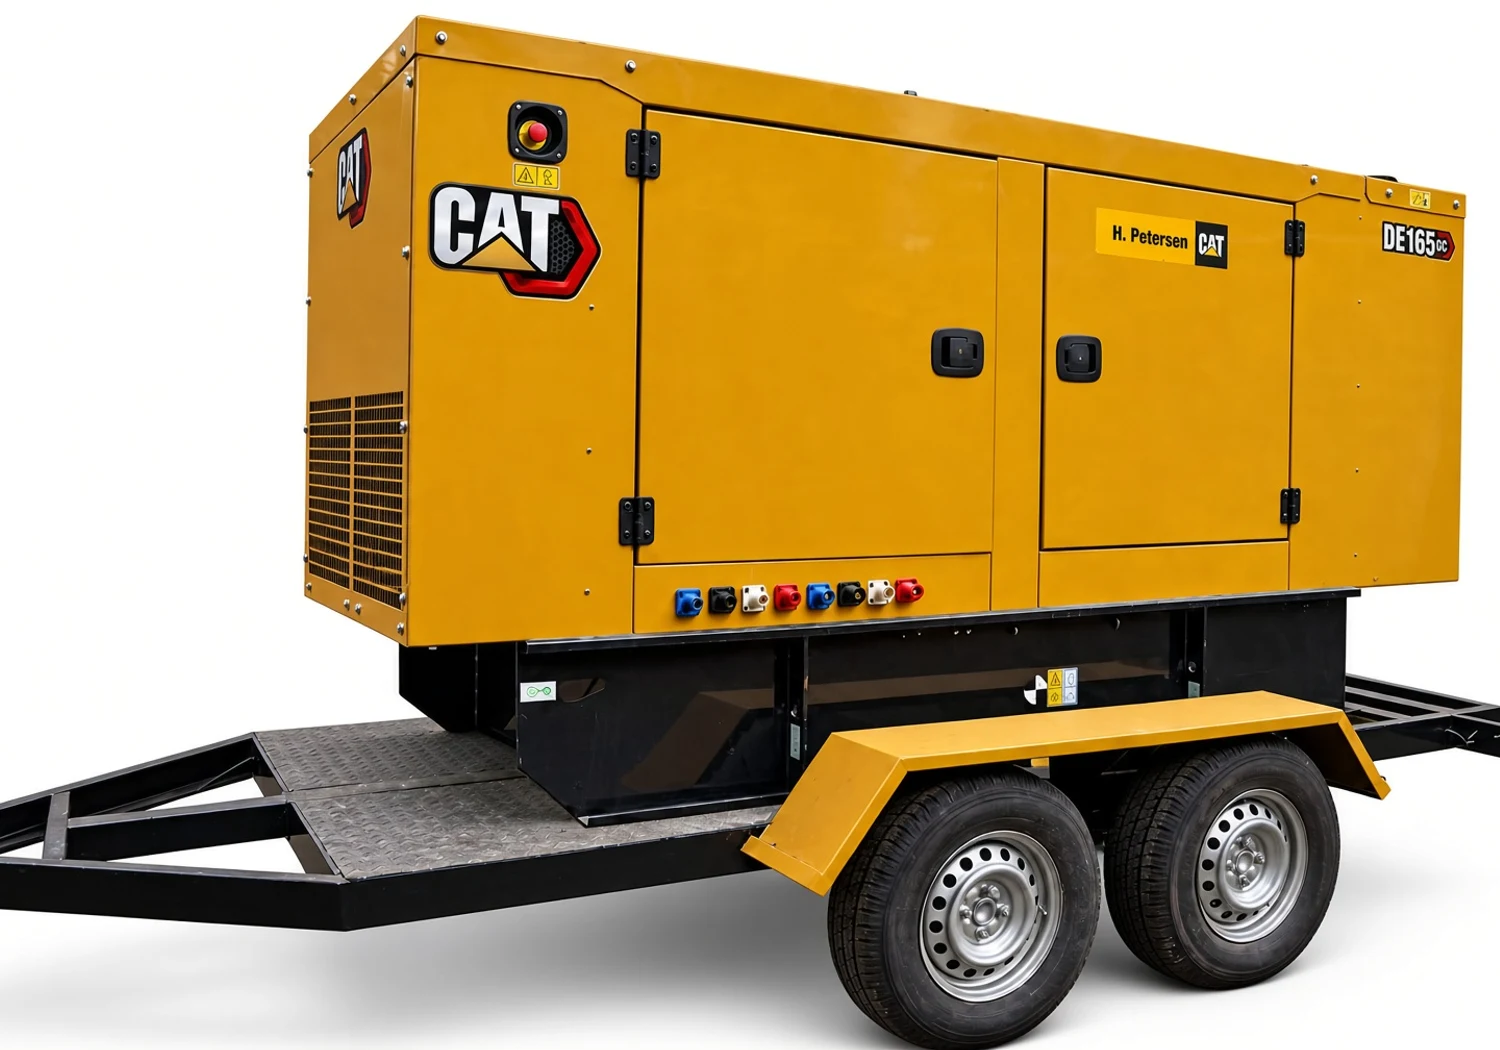
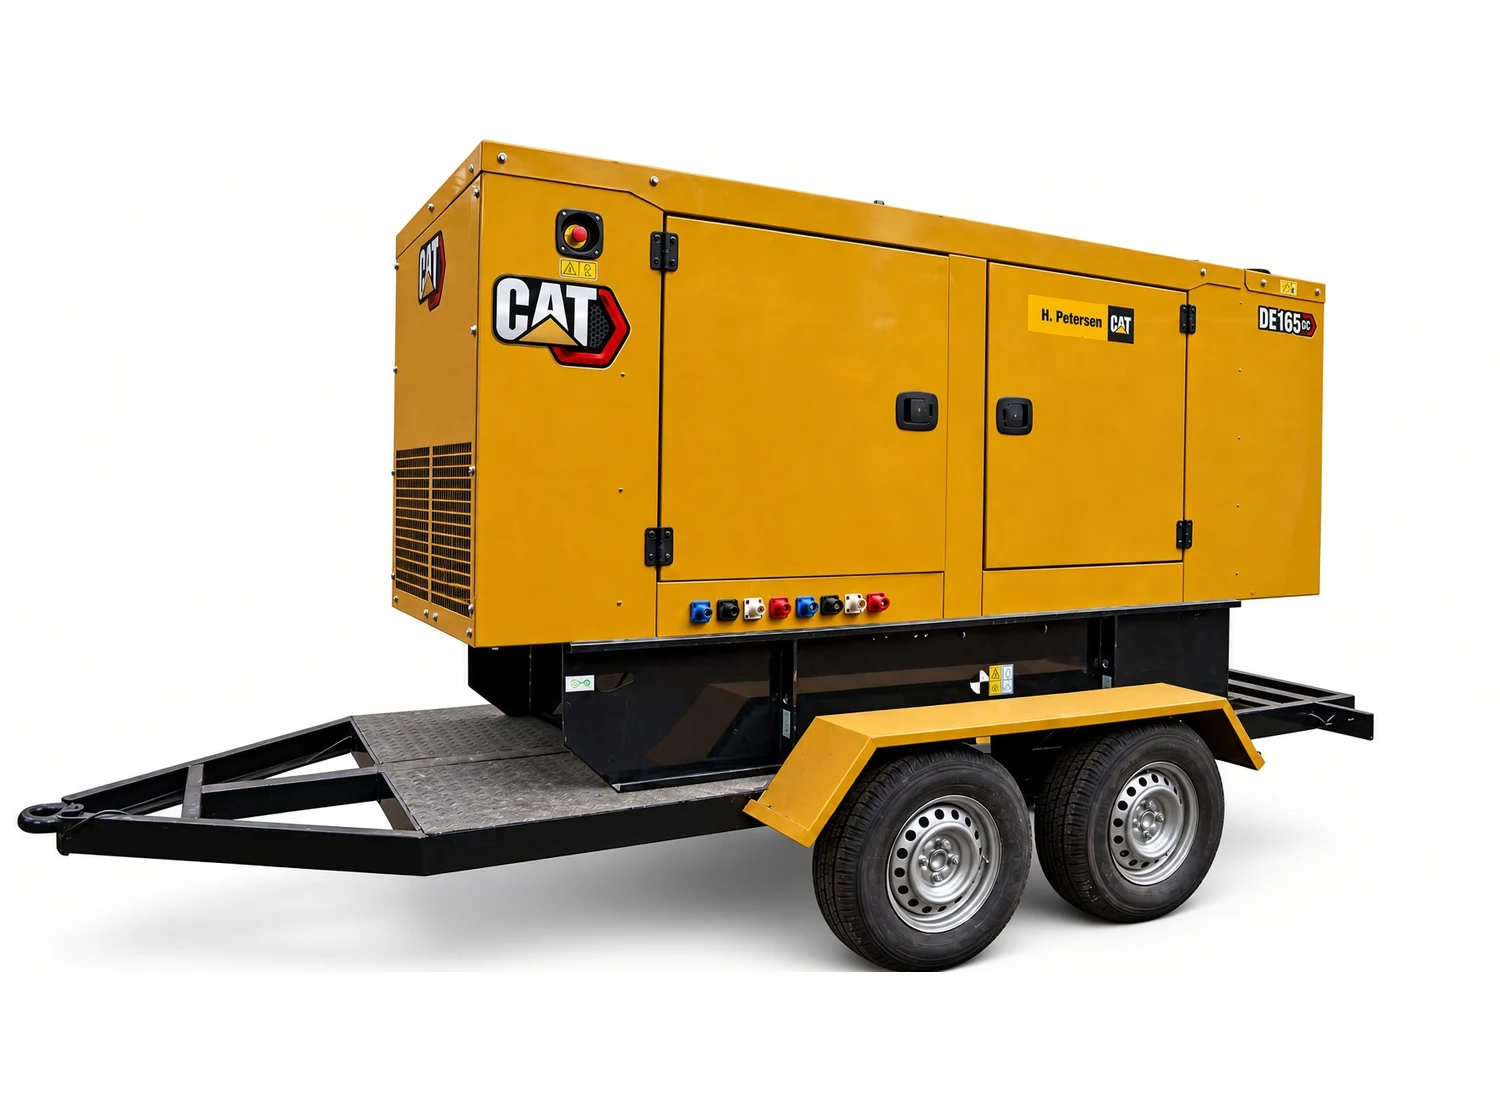
Equipos: climate & energy images use contain (show full product, less zoom)

diff --git a/index.html b/index.html
@@ -134,7 +134,7 @@
           </div>
         </article>
         <article class="equip-row equip-row--reverse reveal">
-          <div class="equip-row-media media-reveal"><img src="assets/img/products/ventilador-industrial.webp" alt="Climatización" loading="lazy" /></div>
+          <div class="equip-row-media equip-row-media--contain media-reveal"><img src="assets/img/products/ventilador-industrial.webp" alt="Climatización" loading="lazy" /></div>
           <div class="equip-row-body">
             <span class="equip-eyebrow" data-i18n="home.cat.climate.title">Climatización</span>
             <h3 data-i18n="home.diff.clima.title">Ventiladores, climatizadores y estufas</h3>
@@ -143,7 +143,7 @@
           </div>
         </article>
         <article class="equip-row reveal">
-          <div class="equip-row-media media-reveal"><img src="assets/img/gallery/generadores.webp" alt="Generadores eléctricos CAT" loading="lazy" /></div>
+          <div class="equip-row-media equip-row-media--contain media-reveal"><img src="assets/img/gallery/generadores.webp" alt="Generadores eléctricos CAT" loading="lazy" /></div>
           <div class="equip-row-body">
             <span class="equip-eyebrow" data-i18n="home.cat.energy.title">Energía</span>
             <h3 data-i18n="home.diff.energia.title">Generadores eléctricos</h3>

diff --git a/css/styles.css b/css/styles.css
@@ -266,6 +266,7 @@ h1, h2, h3 { font-family: var(--serif); font-weight: 600; line-height: 1.08; let
 .equip-row:hover { transform: translateY(-5px); box-shadow: 0 26px 50px rgba(30,20,10,0.15); }
 .equip-row-media { position: relative; min-height: 168px; background: #ffffff; overflow: hidden; }
 .equip-row-media img { position: absolute; inset: 0; width: 100%; height: 100%; object-fit: cover; }
+.equip-row-media--contain img { object-fit: contain; padding: 6%; }
 .equip-row-body { display: flex; flex-direction: column; justify-content: center; align-items: flex-start; gap: 7px; padding: clamp(16px, 2.2vw, 28px); }
 .equip-eyebrow { font-size: 0.66rem; letter-spacing: 0.2em; text-transform: uppercase; color: #9c7d1e; font-weight: 500; }
 .equip-row-body h3 { font-size: clamp(1.2rem, 1.9vw, 1.55rem); line-height: 1.12; color: var(--on-cream); }
